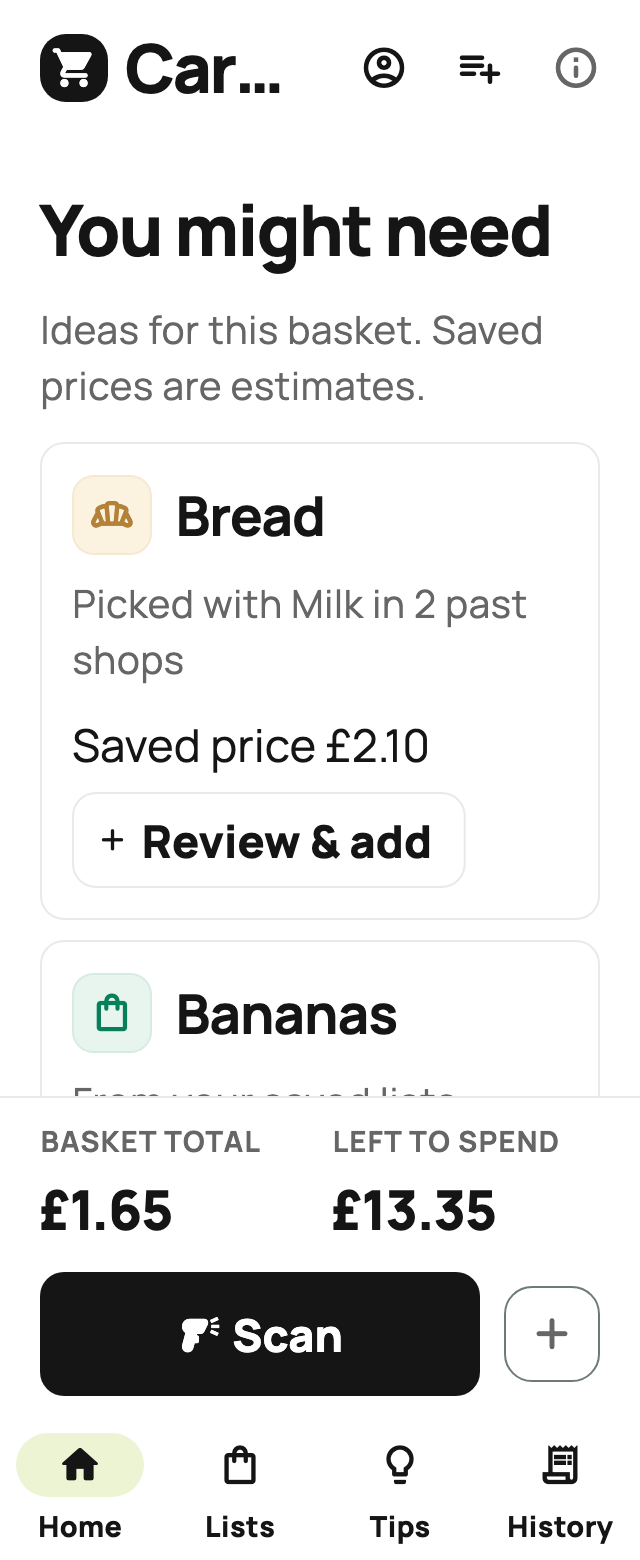
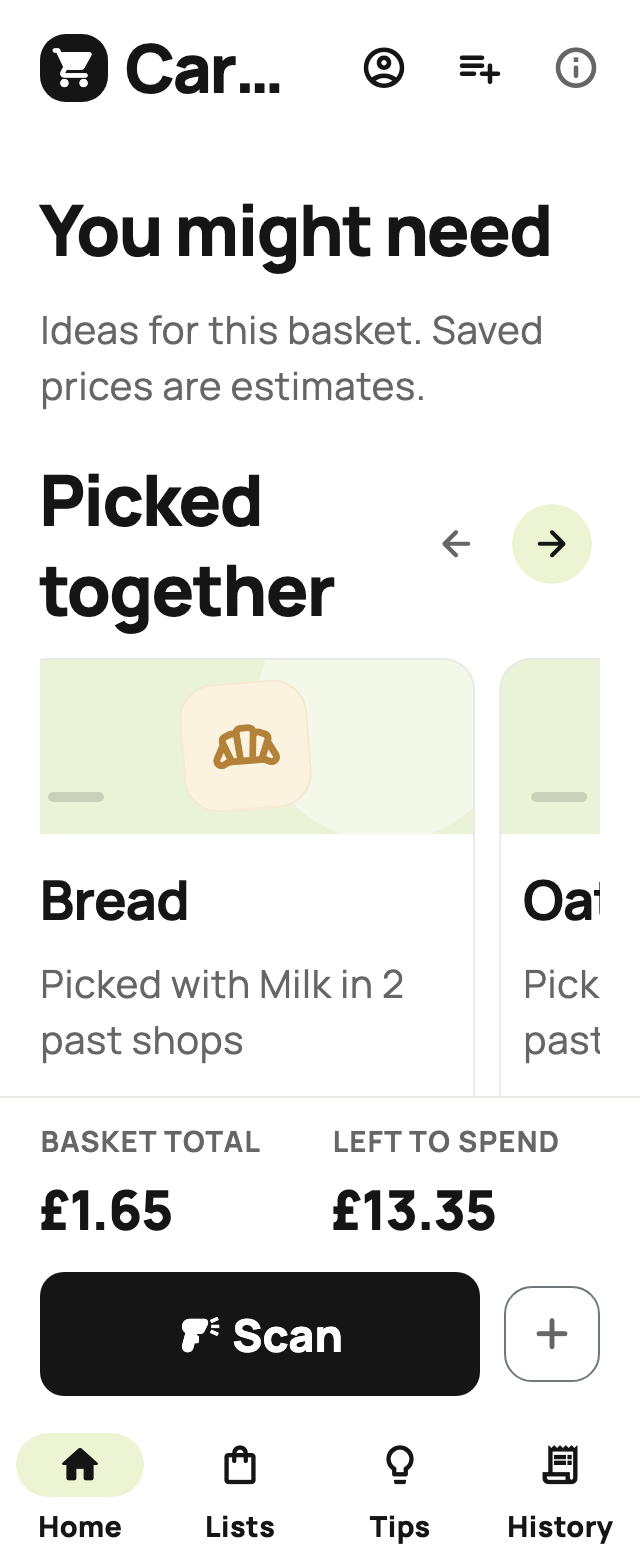
Document category browsing and refresh recommendation previews

Changed region(s): [[0.0625, 0.2769, 0.9375, 0.7077], [0.7188, 0.5846, 0.75, 0.6154]]

diff --git a/tool/render_recommendation_previews.dart b/tool/render_recommendation_previews.dart
@@ -33,12 +33,14 @@ void main() {
     for (var i = 0; i < 2; i++) {
       await store.addItem(name: 'Milk', unitPricePence: 165);
       await store.addItem(name: 'Bread', unitPricePence: 210);
+      await store.addItem(name: 'Oats', unitPricePence: 145);
       await store.completeShopping('Weekly shop $i');
     }
     await store.addItem(name: 'Eggs', unitPricePence: 285);
     await store.addItem(name: 'Oats', unitPricePence: 145);
     await store.completeShopping('Top-up shop');
     await store.addItem(name: 'Bananas', unitPricePence: 125);
+    await store.addItem(name: 'Oranges', unitPricePence: 175);
     await store.saveList('Fruit top-up');
     await store.startNewList();
     await store.addItem(name: 'Milk', unitPricePence: 165);
@@ -52,6 +54,15 @@ void main() {
         ),
       );
       await tester.pumpAndSettle();
+      for (final row in tester.widgetList<SingleChildScrollView>(
+        find.byWidgetPredicate(
+          (widget) =>
+              widget is SingleChildScrollView &&
+              widget.scrollDirection == Axis.horizontal,
+        ),
+      )) {
+        expect(row.controller!.offset, 0);
+      }
       final section = find.byKey(const Key('recommendations-section'));
       await tester.scrollUntilVisible(
         section,
@@ -60,6 +71,15 @@ void main() {
       );
       await Scrollable.ensureVisible(tester.element(section), alignment: 0);
       await tester.pumpAndSettle();
+      for (final row in tester.widgetList<SingleChildScrollView>(
+        find.byWidgetPredicate(
+          (widget) =>
+              widget is SingleChildScrollView &&
+              widget.scrollDirection == Axis.horizontal,
+        ),
+      )) {
+        expect(row.controller!.offset, 0);
+      }
     }
 
     Future<void> capture(String name) async {
@@ -78,6 +98,12 @@ void main() {
 
     await open(store, 'personal');
     await capture('personal');
+    await tester.drag(
+      find.byKey(const PageStorageKey('recommendation-scroll-pickedTogether')),
+      const Offset(-260, 0),
+    );
+    await tester.pumpAndSettle();
+    await capture('scrolled');
     final review = find.byKey(const Key('recommendation-review-bread'));
     await tester.ensureVisible(review);
     await tester.tap(review);

diff --git a/docs/MOCKUP_GAP_ANALYSIS.md b/docs/MOCKUP_GAP_ANALYSIS.md
@@ -18,7 +18,7 @@ The UI polish pass brings the manual shopping flow closer to that direction. The
 | Choose how to open, then review | Continue editing retains the same list, quantities, prices, and budget. Duplicate and start-fresh modes create separate baskets. Unsaved changes are protected before switching. Finish shopping explicitly creates a historical record. | There is one active basket. Starting a new basket does not automatically claim the previous one was purchased. |
 | Duplicate or start fresh without changing the saved original | Duplicate keeps saved quantities and budget. Start fresh retains products and last-entered prices, sets every quantity to zero, and removes the budget. Both create independent active items. | Continue editing intentionally updates the saved original. Save a copy keeps a separate named version. |
 | Current prices and changed-price highlights during reuse | Review shows the saved, last-entered prices for checking before shopping. | Automatic refresh and “was/current” comparisons need a reliable price source, store identity, timestamps, and no-result/offline handling. No live price claim is made. |
-| Smart tip card, Tips view, and recommendations | Local rules provide budget/pending-product tips. Home also recommends recurring picks, products picked together, saved-list products, and labelled starter/pairing ideas, with explicit review before adding. | Recommendations use personal shopping records and saved-price estimates. Retailer-backed cheaper alternatives, health guidance, and spending forecasts remain future work. |
+| Smart tip card, Tips view, and recommendations | Local rules provide budget/pending-product tips. Home recommends recurring picks, products picked together, saved-list products, and labelled starter/pairing ideas in horizontal category rows, with explicit review before adding. | Recommendations use personal shopping records and saved-price estimates. Retailer-backed cheaper alternatives, health guidance, and spending forecasts remain future work. |
 | Scan a barcode, show a matched product, add it | Implemented with camera/manual capture, Open Food Facts lookup, editable match review, explicit shelf price and quantity, repeat-product merging, and cached/offline/no-match fallback. Product metadata persists with saved lists. | Check camera and permissions on physical devices. A barcode identifies a product; live retailer price lookup remains separate work. UPC-E and QR capture are outside this version. |
 | Search catalog; show pack sizes, categories, and product photos | Basket-only name search and a pending-products filter are available. Scanned items retain barcode, brand, and display pack size. Product icon avatars remain decorative. | Catalog search, normalized pack sizes and units, category fields, and appropriately licensed photographs remain future work. |
 | Cheaper alternatives and unit-price savings | Generic advice to compare shelf labels is available. No automatic comparison is performed. | Needs comparable products, normalized sizes/units, reliable retailer prices, and source/freshness information. Users must review any proposed substitution. |

diff --git a/README.md b/README.md
@@ -58,7 +58,9 @@ See [personal suggestions](docs/previews/suggestions-personal.png), [a reused es
 
 ## Recommendations for your shop
 
-**You might need** on Home suggests up to three products before you start typing. Autocomplete finds a name you are looking for; recommendations help you consider what to add next.
+**You might need** on Home groups recommendations into horizontal rows: **Picked together**, **Your regulars**, **From your saved lists**, **Pick up again**, **Pairing ideas**, and **Everyday essentials**. Only categories with suggestions appear, with up to six products in each row. Autocomplete finds a name you are looking for; recommendations help you consider what to add next.
+
+Swipe a category sideways or use its next/back buttons. Each row scrolls independently, with a glimpse of the next card on phone screens. Illustrated cards use Carty's City palette and original icon artwork; their review controls and explanations grow with larger text. Navigation buttons respect Reduce Motion. A product appears in one category rather than being repeated across rows.
 
 The on-device engine prioritises products picked together with items in the current basket, then recurring picks, saved-list products, and previous-shop items. Completed shops supply the evidence for labels such as **Picked with Milk in 2 past shops** or **Picked in 3 of your last 3 shops**. Planned products in saved lists are labelled separately. Without personal history, common essentials and curated pairing ideas provide starting suggestions; they never claim that other customers bought something or that you have bought it before.
 
@@ -68,7 +70,7 @@ Items already in the basket, including quantity-zero products, are excluded. Gen
 
 Matching uses the latest 40 completed shops and the existing bounded personal-name index. Duplicate lines or high quantities in one shop do not count as repeated shopping occasions. Pairing evidence requires at least two completed shops and a recurring association; common pairing ideas are labelled as ideas. Recommendations update as the basket and shopping records change, remain within the current guest/account workspace, and create no additional cloud records or AI requests.
 
-See [personal recommendations](docs/previews/recommendations-personal.png), [starter ideas](docs/previews/recommendations-starter.png), and [the review form](docs/previews/recommendations-review.png). Regenerate the real Flutter previews with `flutter test tool/render_recommendation_previews.dart`.
+See [personal recommendation rows](docs/previews/recommendations-personal.png), [a swiped row](docs/previews/recommendations-scrolled.png), [starter ideas](docs/previews/recommendations-starter.png), and [the review form](docs/previews/recommendations-review.png). Regenerate the real Flutter previews with `flutter test tool/render_recommendation_previews.dart`.
 
 ## Barcode scanning
 

diff --git a/docs/ROADMAP.md b/docs/ROADMAP.md
@@ -41,7 +41,7 @@ Introduce normalized pack sizes and units before unit-price comparisons such as 
 
 ## Stage 4: optional assistance and sharing
 
-Home now has an offline recommendation engine using the current basket, saved lists, and completed shops. It explains recurring picks and products picked together, separates generic starting ideas from personal evidence, filters known estimates against remaining budget, and requires review before adding. This is personal ranking from recorded shopping activity; shared popularity, retailer catalogs, and AI-generated substitutions remain future work.
+Home now has an offline recommendation engine using the current basket, saved lists, and completed shops. It explains recurring picks and products picked together, separates generic starting ideas from personal evidence, filters known estimates against remaining budget, and requires review before adding. Products appear in horizontal category rows, each with independent swipe browsing and previous/next controls. This is personal ranking from recorded shopping activity; shared popularity, retailer catalogs, and AI-generated substitutions remain future work.
 
 AI can suggest substitutions, remind someone about products they often buy, or explain spending patterns once Carty has suitable data. Make it optional, explain what data leaves the device, and let the user accept each suggestion. Do not automatically add products, change quantities, or make purchases.
 

diff --git a/docs/CLOUD_SETUP.md b/docs/CLOUD_SETUP.md
@@ -47,7 +47,7 @@ Verified on 27–28 October 2026 with Flutter 3.47.8 / Dart 3.13.7:
 | Check | Result |
 | --- | --- |
 | Dart formatting and Flutter analysis | Pass |
-| Full regression suite, including startup, suggestions, and recommendations | 205 tests pass |
+| Full regression suite, including startup, suggestions, and category carousels | 213 tests pass |
 | Phone previews, including larger text | Rendered and reviewed |
 | iOS Simulator Debug build, Xcode 27.1 | Pass |
 | Android Debug build, Java 21 | Pass |
